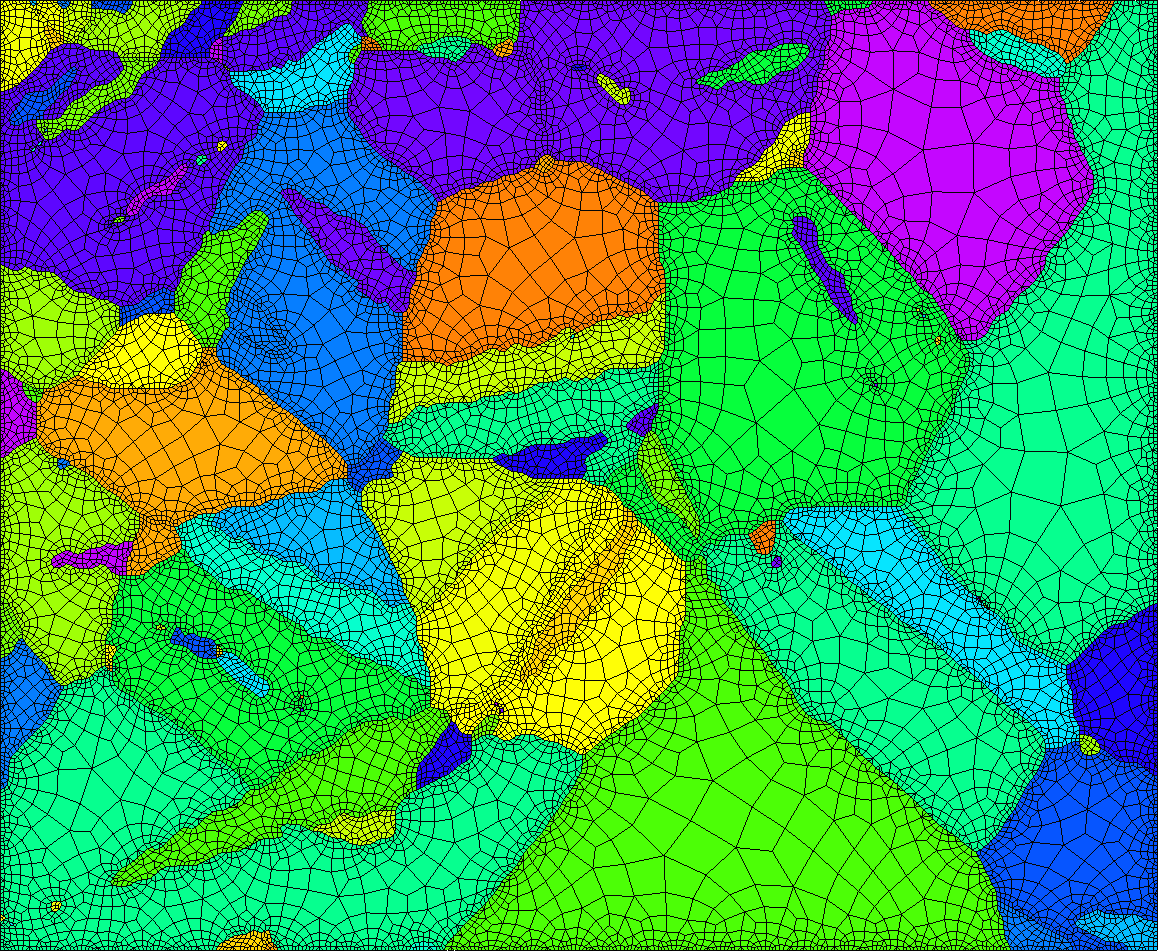
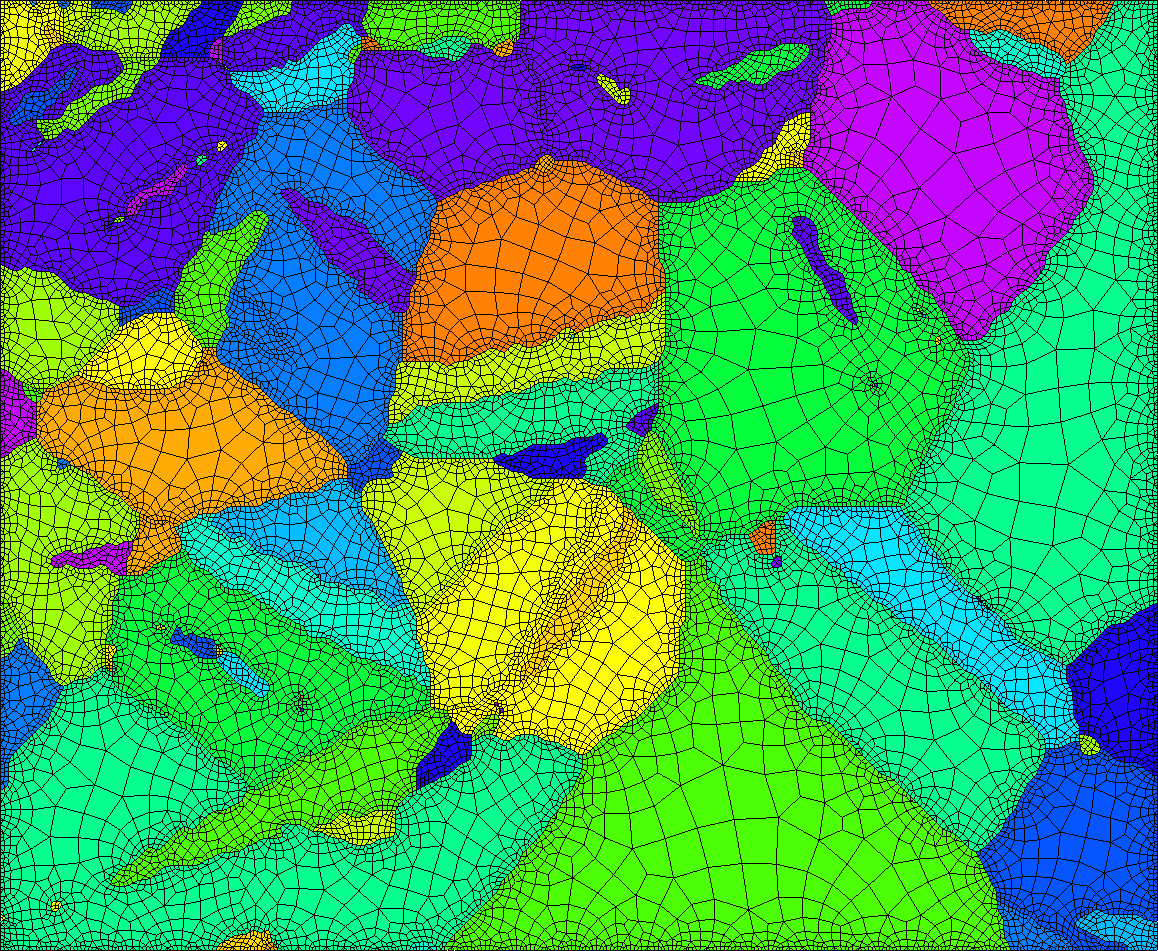
Simplified version for script twins.m

diff --git a/docs/Examples/twins.m b/docs/Examples/twins.m
@@ -1,6 +1,5 @@
 mtexdata twins
-ebsd=ebsd('indexed')
-grains=calcGrains(ebsd)
+ebsd=ebsd('indexed');
+grains=calcGrains(ebsd);
 G=gmshGeo(cond_smooth(grains));
-G=simplify(G);
 mesh(G,'twins.msh','ElementSize',0.2,'gradient',0.5,'elementType','Brick');
